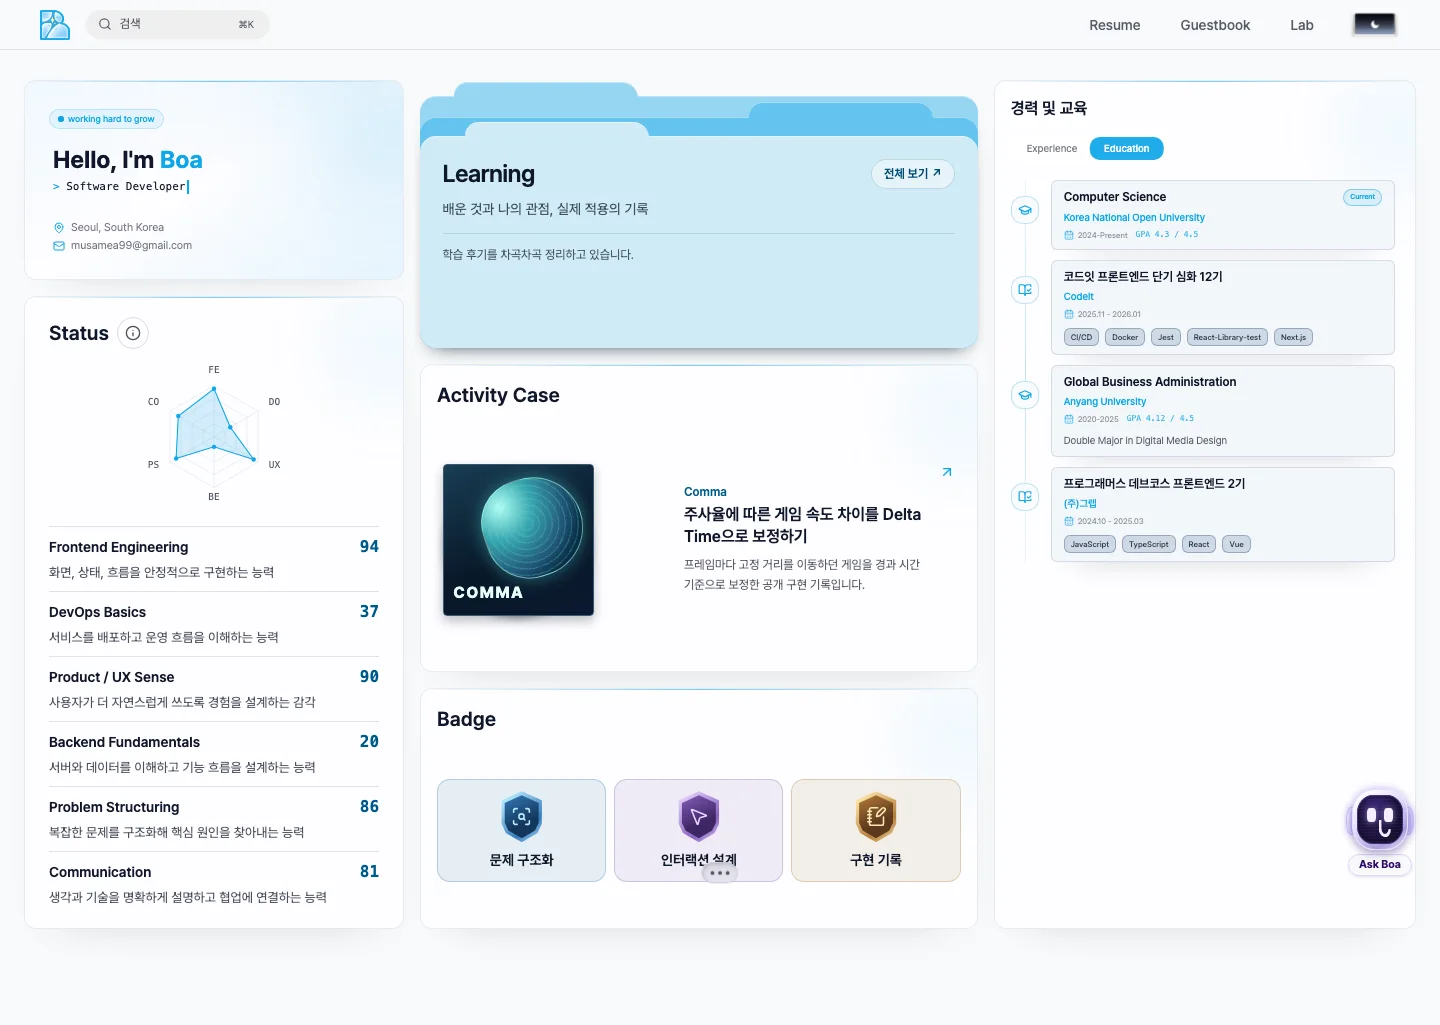
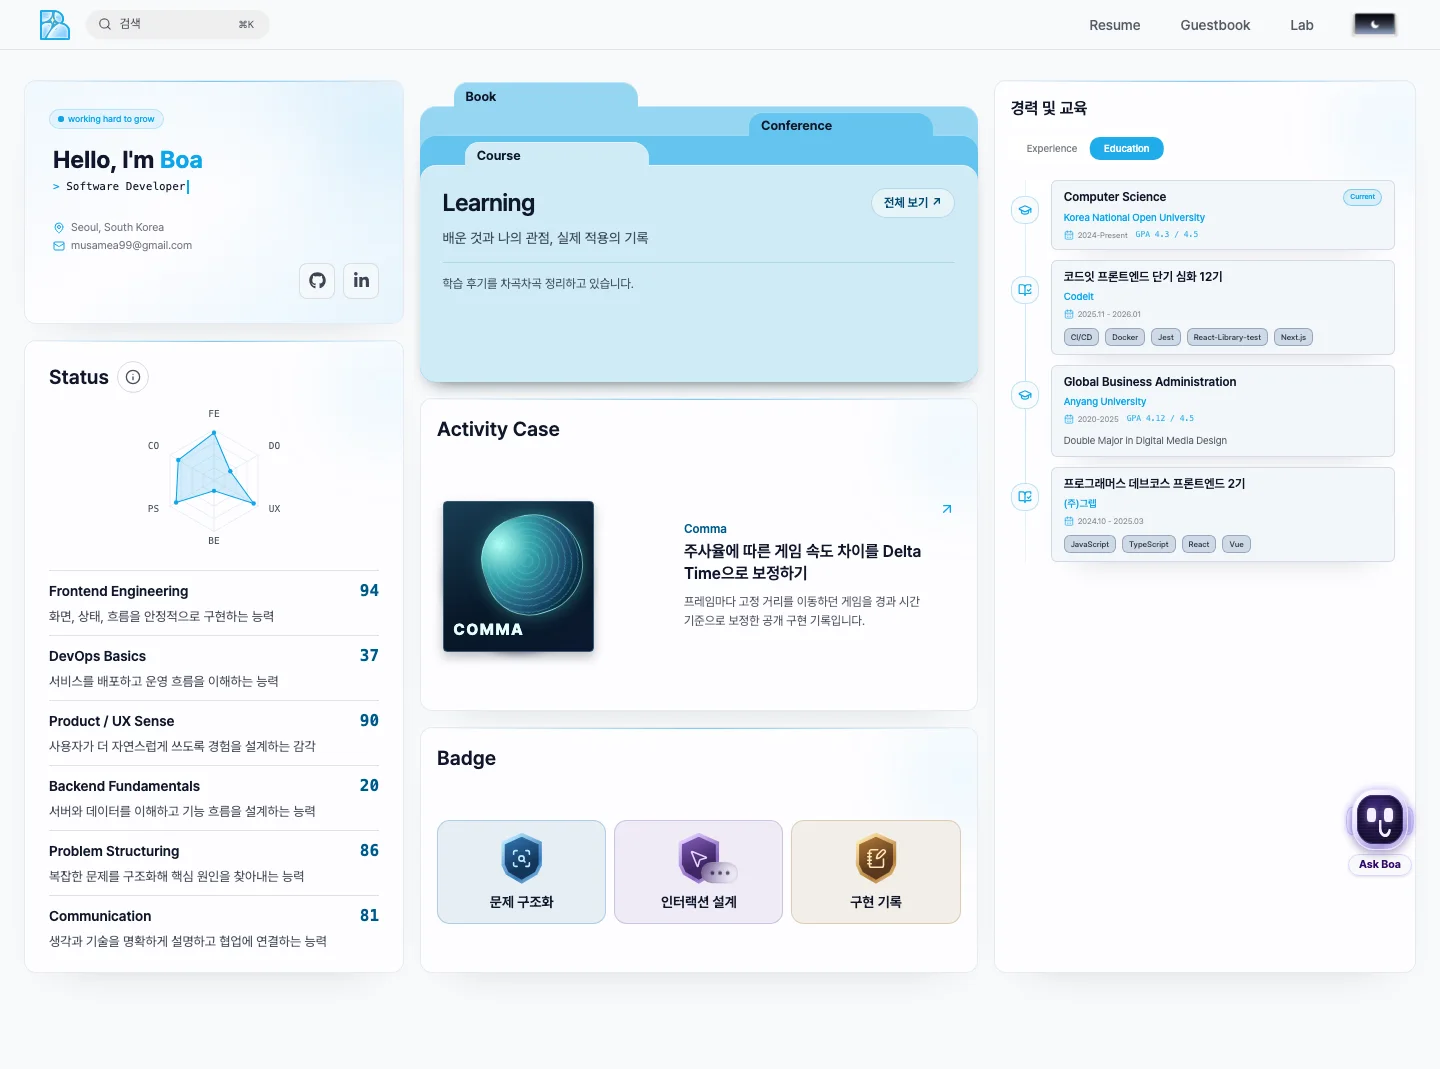
feat: add profile socials and labeled learning folder indexes

diff --git a/src/app/(layout)/(shell)/resume/_components/cards/LearningShelfPreview.tsx b/src/app/(layout)/(shell)/resume/_components/cards/LearningShelfPreview.tsx
@@ -1,16 +1,22 @@
 import Link from "next/link";
-import LearningCard, { type LearningPreview } from "@/app/(layout)/(shell)/learning/_components/LearningCard";
+import LearningCard, { learningLabels, type LearningPreview } from "@/app/(layout)/(shell)/learning/_components/LearningCard";
+import type { LearningType } from "@/lib/resume/types";
 import ResumeCard from "../ResumeCard";
 import styles from "./ResumeCollections.module.css";
 import type { ResumeCardSlotProps } from "./card.types";
+
+function FolderIndex({ type }: { type: LearningType }) {
+  return <Link href={`/learning?type=${type}`} className={styles.folderIndex}>{learningLabels[type]}</Link>;
+}
 
 export default function LearningShelfPreview({ entries, className, animationDelay }: ResumeCardSlotProps & { entries: readonly LearningPreview[] }) {
   return (
     <ResumeCard padded={false} accent={false} className={`${styles.folderCard} ${className ?? ""}`} animationDelay={animationDelay}>
       <section aria-label="최근 학습 후기" className={styles.folderStack}>
-        <span className={`${styles.folderLayer} ${styles.folderBack}`} aria-hidden="true" />
-        <span className={`${styles.folderLayer} ${styles.folderMiddle}`} aria-hidden="true" />
+        <div className={`${styles.folderLayer} ${styles.folderBack}`}><FolderIndex type="book" /></div>
+        <div className={`${styles.folderLayer} ${styles.folderMiddle}`}><FolderIndex type="conference" /></div>
         <div className={`${styles.folderLayer} ${styles.folderFront}`}>
+          <FolderIndex type="course" />
           <div className="flex flex-wrap items-center justify-between gap-2">
             <h2 className="text-2xl font-semibold tracking-tight">Learning</h2>
             <Link href="/learning" className="rounded-full border border-sky-700/20 bg-background/55 px-3 py-1.5 text-xs font-semibold whitespace-nowrap text-sky-900 transition-colors hover:bg-background focus-visible:outline-2 focus-visible:outline-blue dark:border-sky-300/25 dark:text-sky-100">전체 보기 ↗</Link>

diff --git a/src/app/(layout)/(shell)/resume/_components/ProfileHeroCard.tsx b/src/app/(layout)/(shell)/resume/_components/ProfileHeroCard.tsx
@@ -3,7 +3,11 @@
 import { useEffect, useState } from "react";
 import { motion } from "framer-motion";
 import { Mail, MapPin } from "lucide-react";
-import { profileHeroContent } from "../_constants/resume.data";
+import { FaGithub, FaLinkedinIn } from "react-icons/fa";
+import { contactSection, profileHeroContent } from "../_constants/resume.data";
+
+const socialIcons = { GitHub: FaGithub, LinkedIn: FaLinkedinIn };
+const socialLinks = contactSection.links.filter((link) => link.label === "GitHub" || link.label === "LinkedIn");
 
 export default function ProfileHeroCard() {
   const [roleIndex, setRoleIndex] = useState(0);
@@ -123,6 +127,24 @@ export default function ProfileHeroCard() {
             </a>
           </motion.div>
         </div>
+        <nav aria-label="소셜 프로필" className="mt-2 flex justify-end gap-2">
+          {socialLinks.map(({ label, href }) => {
+            const Icon = socialIcons[label];
+            return (
+              <a
+                key={label}
+                href={href}
+                aria-label={label}
+                title={label}
+                target="_blank"
+                rel="noreferrer"
+                className="grid size-9 place-items-center rounded-lg border border-foreground/12 bg-background/65 text-foreground/80 transition-colors hover:border-blue/40 hover:bg-background hover:text-foreground focus-visible:outline-2 focus-visible:outline-offset-2 focus-visible:outline-blue"
+              >
+                <Icon size={17} aria-hidden="true" />
+              </a>
+            );
+          })}
+        </nav>
       </div>
     </section>
   );

diff --git a/src/app/(layout)/(shell)/resume/_components/cards/ResumeCollections.module.css b/src/app/(layout)/(shell)/resume/_components/cards/ResumeCollections.module.css
@@ -11,7 +11,7 @@
   display: flex;
   min-height: 100%;
   flex-direction: column;
-  padding-top: 3.5rem;
+  padding-top: 5.3rem;
 }
 
 .folderLayer {
@@ -20,16 +20,31 @@
   box-shadow: inset 0 1px 0 #ffffff65, 0 9px 19px -14px #08273972;
 }
 
-.folderLayer::before {
+.folderIndex {
   position: absolute;
-  top: -0.9rem;
+  top: -1.45rem;
   left: var(--folder-tab-left);
-  width: 33%;
-  height: 1.15rem;
+  display: flex;
+  width: max(33%, 6rem);
+  min-height: 1.9rem;
+  align-items: center;
   border-radius: 0.85rem 1rem 0 0;
+  padding: 0 0.75rem 0.15rem;
   background: var(--folder-surface);
   box-shadow: inset 0 1px 0 #ffffff65;
-  content: "";
+  color: var(--color-foreground);
+  font-size: 0.8125rem;
+  font-weight: 650;
+}
+
+.folderIndex:hover {
+  text-decoration: underline;
+  text-underline-offset: 0.18em;
+}
+
+.folderIndex:focus-visible {
+  outline: 2px solid currentColor;
+  outline-offset: -3px;
 }
 
 .folderBack,
@@ -43,13 +58,13 @@
 .folderBack {
   --folder-surface: color-mix(in srgb, var(--color-blue) 42%, var(--color-background));
   --folder-tab-left: 6%;
-  top: 1rem;
+  top: 1.6rem;
 }
 
 .folderMiddle {
   --folder-surface: color-mix(in srgb, var(--color-blue) 63%, var(--color-background));
   --folder-tab-left: 59%;
-  top: 2.3rem;
+  top: 3.45rem;
 }
 
 .folderFront {

diff --git a/e2e/learning.spec.ts b/e2e/learning.spec.ts
@@ -33,3 +33,18 @@ test("Resume links to archive while unpublished Learning remains inaccessible", 
   expect(sitemap).toContain("https://b0o0a.com/learning</loc>");
   expect(sitemap).not.toContain("learning-review-draft");
 });
+
+test("the Resume folder indexes link to their Learning categories", async ({ page }) => {
+  await page.goto("/resume");
+  const folder = page.getByRole("region", { name: "최근 학습 후기" });
+  for (const [name, type] of [["Book", "book"], ["Conference", "conference"]]) {
+    const index = folder.getByRole("link", { name, exact: true });
+    await expect(index).toHaveAttribute("href", `/learning?type=${type}`);
+    await index.click({ trial: true });
+  }
+  const course = folder.getByRole("link", { name: "Course", exact: true });
+  await expect(course).toHaveAttribute("href", "/learning?type=course");
+  await course.click();
+  await expect(page).toHaveURL(/\/learning\?type=course$/);
+  await expect(page.getByRole("link", { name: "Courses", exact: true })).toHaveAttribute("aria-current", "page");
+});

diff --git a/e2e/resume.spec.ts b/e2e/resume.spec.ts
@@ -11,6 +11,9 @@ test("Resume keeps profile, status and experience alongside the new collections"
   }
 
   await expect(page.getByRole("heading", { name: /Hello, I'm Boa/ })).toBeVisible();
+  const socials = page.getByRole("navigation", { name: "소셜 프로필" });
+  await expect(socials.getByRole("link", { name: "GitHub" })).toHaveAttribute("href", "https://github.com/swallowedB");
+  await expect(socials.getByRole("link", { name: "LinkedIn" })).toHaveAttribute("href", "https://www.linkedin.com/in/boa-choi-5896a9241/");
   await expect.poll(() => page.getByRole("heading", { name: /Hello, I'm Boa/ }).evaluate((heading) => {
     let opacity = 1;
     for (let element: Element | null = heading; element; element = element.parentElement) {

diff --git a/src/app/(layout)/(shell)/resume/_constants/resume.data.ts b/src/app/(layout)/(shell)/resume/_constants/resume.data.ts
@@ -177,6 +177,7 @@ export const contactSection = {
   links: [
     { label: "Email", href: "mailto:musamea99@gmail.com" },
     { label: "GitHub", href: "https://github.com/swallowedB", external: true },
+    { label: "LinkedIn", href: "https://www.linkedin.com/in/boa-choi-5896a9241/", external: true },
     { label: "Guestbook", href: "/guestbook" },
   ] as const satisfies readonly ProfileLink[],
 } as const;
